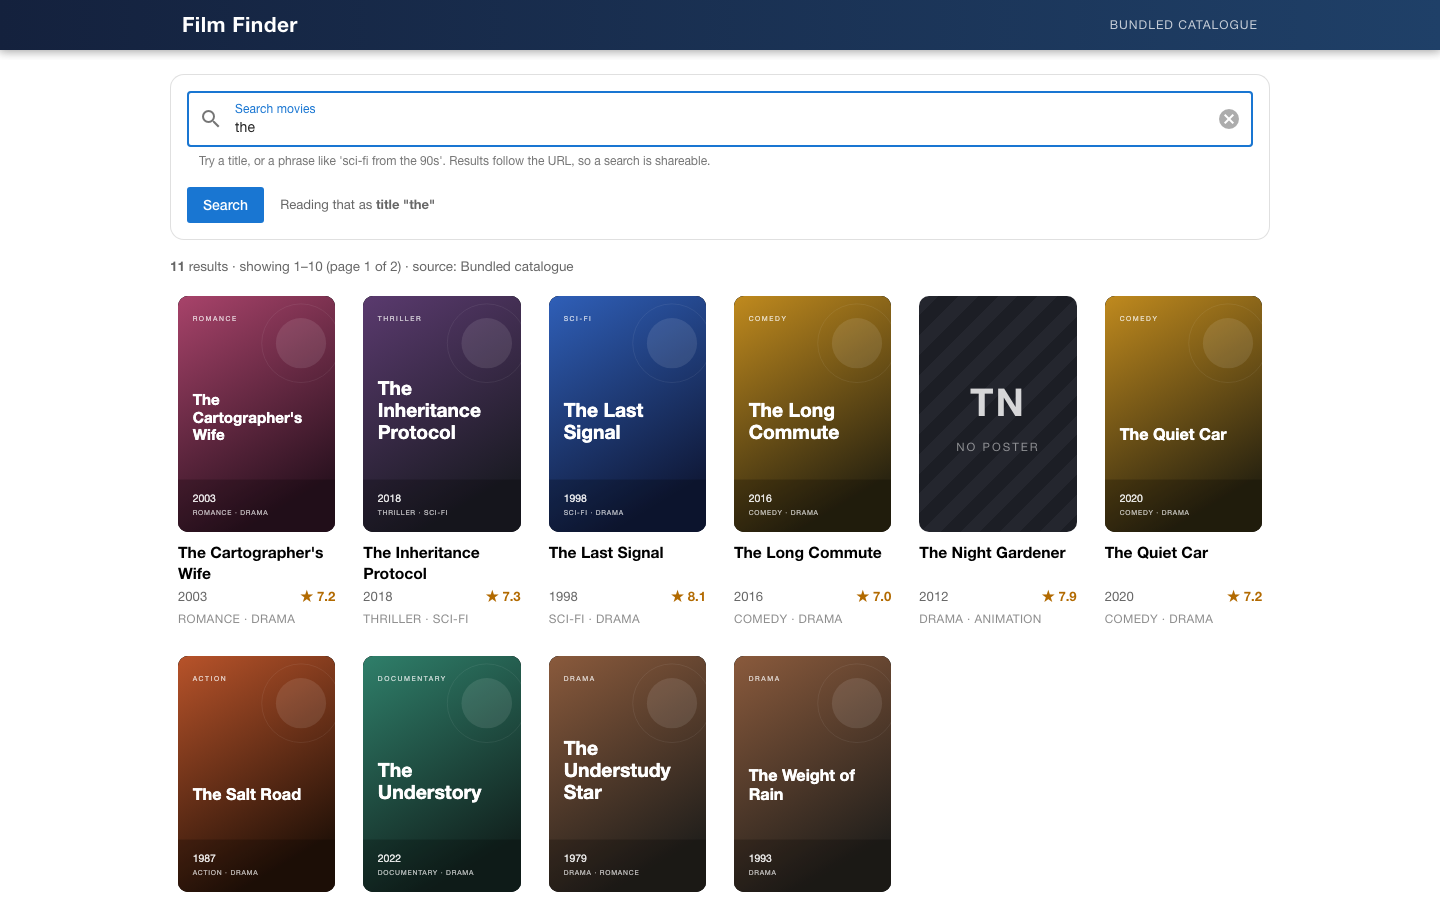
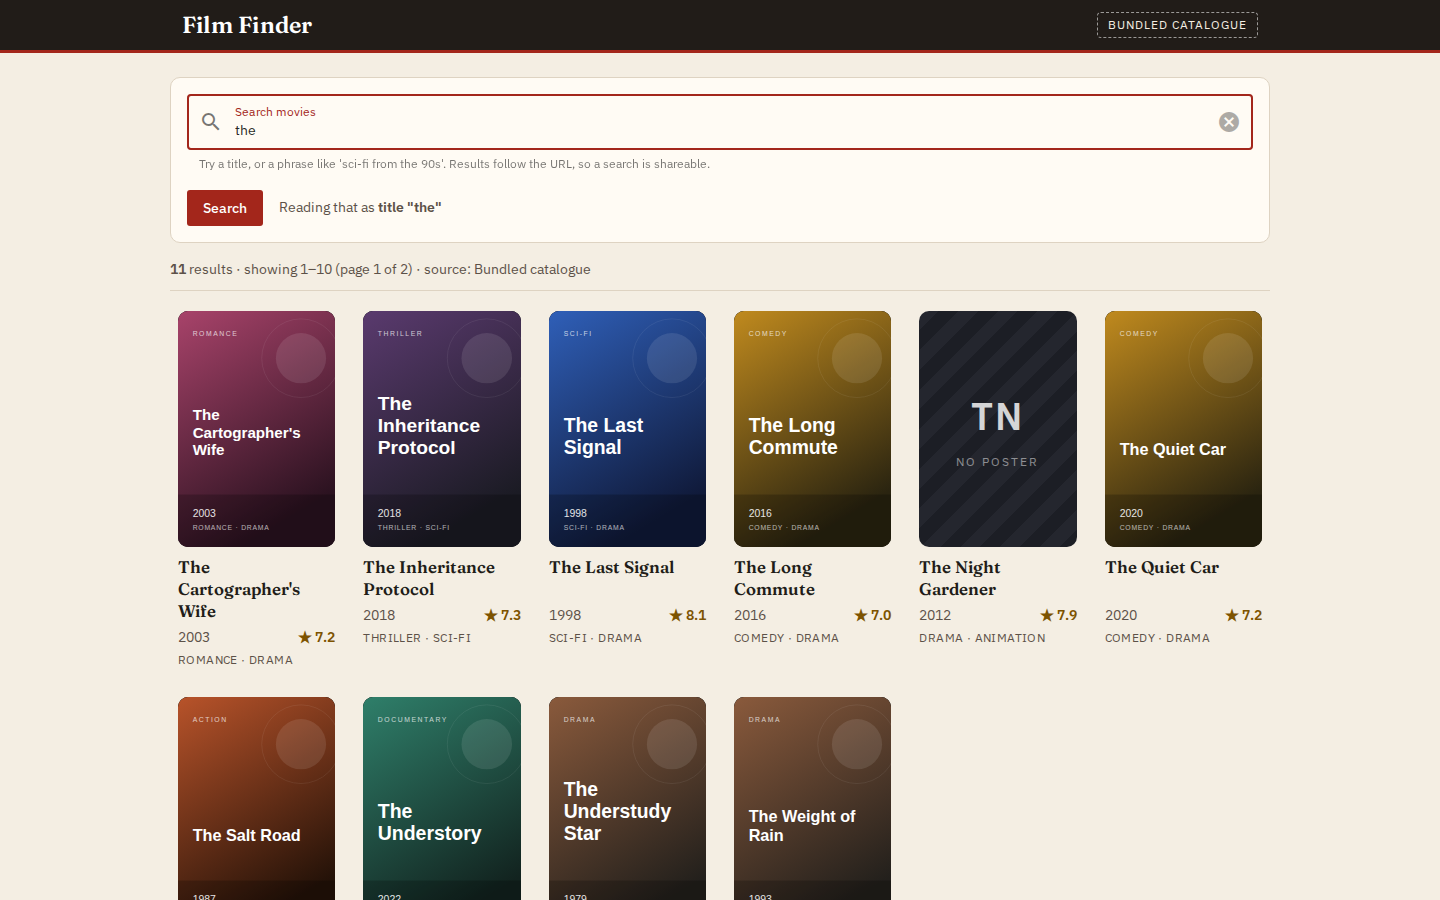
Document the container, theme and fixes, and retake screenshots
Screenshots now show the new palette at 1440x900 and add two phone
captures at 390x844, all from the bundled catalogue. The README drops
the note that the image was never built (it now builds and reports
healthy), describes the nginx headers, the cross-platform lockfile, the
parse ticket and same-page retry, and links the new MIT LICENSE.

diff --git a/README.md b/README.md
@@ -7,9 +7,9 @@ is fetched. The search lives in the URL, so a result page is a link you can send
 ![Search results for "the": eleven matches across two pages, rendered as a poster grid](docs/screenshots/search-results.png)
 
 It ships with a bundled catalogue of 26 invented titles and 24 generated posters, so
-`npm install && npm run dev` gives you a working app with **no API key and no network**. Point it
-at the public HackerRank jsonmock endpoint with one environment variable when you want the real
-thing.
+`npm install && npm run dev` gives you a working app with **no API key and no network** (the
+fonts are bundled too). Point it at the public HackerRank jsonmock endpoint with one environment
+variable when you want a live source.
 
 ---
 
@@ -31,7 +31,7 @@ stateDiagram-v2
     Loading --> Dropped: a newer search already took ticket N+1
     Success --> Loading: page link clicked
     Success --> Parsing: phrase changes
-    Error --> Parsing: Retry pressed
+    Error --> Loading: Retry pressed, same page
     Success --> Idle: field cleared
     Error --> Idle: field cleared
     Dropped --> [*]
@@ -44,14 +44,18 @@ The ticket matters. Aborting an `AbortController` cancels a request that is stil
 it cannot cancel one whose `fetch` has already resolved — that one carries on into `.json()`, or
 into a `503` throw, and lands after the newer request has already painted. So every call to
 `run()` takes a number, and both the success path and the failure path refuse to touch the state
-unless their number is still current. Two regression tests pin this down, one for a late success
-and one for a late failure, in `src/stores/__tests__/moviesSearch.spec.ts`.
+unless their number is still current. Parsing takes a ticket of its own for the same reason: a
+remote phrase parser can answer out of order, and a slow parse of an old phrase must not replace
+the intent of the newer one. Regression tests for a late success, a late failure and a late parse
+live in `src/stores/__tests__/moviesSearch.spec.ts`. Retry repeats the request for the page that
+failed, so the grid and the `?page=` in the URL never disagree.
 
 The URL being the source of truth has the same flavour of subtlety: opening `/?q=the&page=2`
 fills the search box from the URL, which looks to the debounce exactly like typing. The debounced
 callback therefore compares its value against the current query string and navigates only when
-they differ, or a deep link would bounce back to page 1 after 350 ms. `e2e/search.spec.ts` waits
-out the debounce and asserts the page number survives.
+they differ, or a deep link would bounce back to page 1 after 350 ms. The page named in the URL
+is requested directly, so a deep link costs one request rather than page 1 followed by a jump.
+`e2e/search.spec.ts` waits out the debounce and asserts the page number survives.
 
 ## Reading a phrase instead of a keyword
 
@@ -141,7 +145,7 @@ rather than only in a test.
 
 ## Run it
 
-Node `^20.19.0 || >=22.12.0`.
+Node 22.12 or newer (`.nvmrc` says 22).
 
 ```sh
 npm install
@@ -150,15 +154,15 @@ npm run dev          # http://localhost:7211
 
 That is the whole setup. No key, no `.env`, no network.
 
-| Task                   | Command                       |
-| ---------------------- | ----------------------------- |
-| Dev server             | `npm run dev` (port 7211)     |
-| Production build       | `npm run build`               |
-| Preview the build      | `npm run preview` (port 7212) |
-| Types                  | `npm run type-check`          |
-| Lint (oxlint + ESLint) | `npm run lint`                |
-| Format                 | `npm run format`              |
-| Regenerate posters     | `npm run posters`             |
+| Task                   | Command                        |
+| ---------------------- | ------------------------------ |
+| Dev server             | `npm run dev` (port 7211)      |
+| Production build       | `npm run build`                |
+| Preview the build      | `npm run preview` (port 7212)  |
+| Types                  | `npm run type-check`           |
+| Lint (oxlint + ESLint) | `npm run lint` (applies fixes) |
+| Format                 | `npm run format`               |
+| Regenerate posters     | `npm run posters`              |
 
 Copy `.env.example` to `.env` to change anything:
 
@@ -181,12 +185,14 @@ VITE_MOVIES_PROVIDER=jsonmock npm run dev
 
 ```sh
 npx playwright install chromium   # once
-npm run test:unit                 # 78 tests in 9 files
+npm run test:unit                 # 82 tests in 9 files
 npm run test:e2e                  # 16 tests
 npm test                          # both
 ```
 
-Observed on the last run: **78 unit tests passed**, **16 end-to-end tests passed**.
+`@playwright/test` is pinned to an exact version so the browsers it expects match the
+`mcr.microsoft.com/playwright:v1.64.1-noble` image, which is a convenient way to run the
+end-to-end suite without installing browsers locally.
 
 If Playwright reports `Executable doesn't exist`, the browser download was skipped — an
 `ignore-scripts=true` in your npm config will do that silently. `npx playwright install chromium`
@@ -212,18 +218,40 @@ to its own:
 docker compose up --build       # http://localhost:7211
 ```
 
-Multi-stage: `node:22-alpine` builds, `nginxinc/nginx-unprivileged` serves the static output as
-UID 101 on port 8080, with a read-only root filesystem and `no-new-privileges`. `docker/nginx.conf`
-adds the history-mode fallback (`try_files $uri $uri/ /index.html`) that a Vue Router SPA needs,
-plus long cache headers for the hashed assets and the posters. Because Vite inlines the source
-choice at build time, it is a build argument:
+Multi-stage: `node:22-alpine` builds, `nginxinc/nginx-unprivileged:1.30-alpine` serves the static
+output as UID 101 on port 8080, with a read-only root filesystem and `no-new-privileges`.
+`docker/nginx.conf` adds the history-mode fallback (`try_files $uri $uri/ /index.html`) that a Vue
+Router SPA needs, a year of `immutable` caching for hashed assets, 30 days for posters, and
+`no-cache` on `index.html` so a redeploy is picked up on the next load. Every response carries
+`X-Content-Type-Options`, `Referrer-Policy` and `X-Frame-Options`; they are repeated in each
+`location` because nginx drops inherited `add_header` lines wherever a block sets its own.
+
+Because Vite inlines the source choice at build time, it is a build argument:
 
 ```sh
 docker compose build --build-arg VITE_MOVIES_PROVIDER=jsonmock
 ```
 
-`docker compose config` parses. **The image has not been built or booted** — Docker was switched
-off on the machine this was last worked on, so treat the Dockerfile as reviewed, not as verified.
+The compose stack builds from a clean checkout and reports `healthy`; `/`, `/movie/fx0001` and
+`/?q=night` all return the app with the headers above.
+
+The lockfile lists the native builds of rolldown, lightningcss and oxlint for every platform, so
+`npm ci` works the same on macOS, glibc Linux and the Alpine build stage. If you regenerate it,
+use npm 11 or newer; older npm versions record only the platform you ran them on.
+
+## Look and feel
+
+The palette borrows from a repertory cinema programme: paper background, projection-booth ink
+for the header, marquee red for actions and brass for ratings. Headings are Fraunces and body
+text is IBM Plex Sans, both installed from `@fontsource` so nothing is fetched from a font CDN.
+The tokens live in `src/styles/theme.scss`, and `src/main.ts` hands the same colours to
+Quasar's brand config so its inputs and buttons match. Muted text clears WCAG AA on the paper
+background, there is a skip link to the main region, errors are announced with `role="alert"`,
+and the card hover lift is switched off under `prefers-reduced-motion`.
+
+| Phone, results                                                                        | Phone, detail                                                                   |
+| ------------------------------------------------------------------------------------- | ------------------------------------------------------------------------------- |
+| ![Four results for "night" in a two-column grid](docs/screenshots/mobile-results.png) | ![Night Harbour's detail screen on a phone](docs/screenshots/mobile-detail.png) |
 
 ## Files worth opening
 
@@ -235,6 +263,7 @@ off on the machine this was last worked on, so treat the Dockerfile as reviewed,
 | `src/api/providers/fixtureProvider.ts` | `searchCatalog` is pure and totally ordered          |
 | `src/composables/useDebouncedWatch.ts` | debounce with `cancel` and `flush`                   |
 | `src/config/appConfig.ts`              | every tunable in the app                             |
+| `src/styles/theme.scss`                | palette, type and the shared notice styles           |
 | `scripts/generate-posters.mjs`         | how the artwork is produced                          |
 
 ## What is deliberately missing
@@ -248,3 +277,7 @@ off on the machine this was last worked on, so treat the Dockerfile as reviewed,
   by source, and tripling them again by browser buys little here.
 - **The remote phrase parser has no reference server.** Its client, validation and fallback are
   tested against a stubbed `fetch`, but no endpoint implementation ships here.
+
+## Licence
+
+MIT, see [LICENSE](LICENSE).
